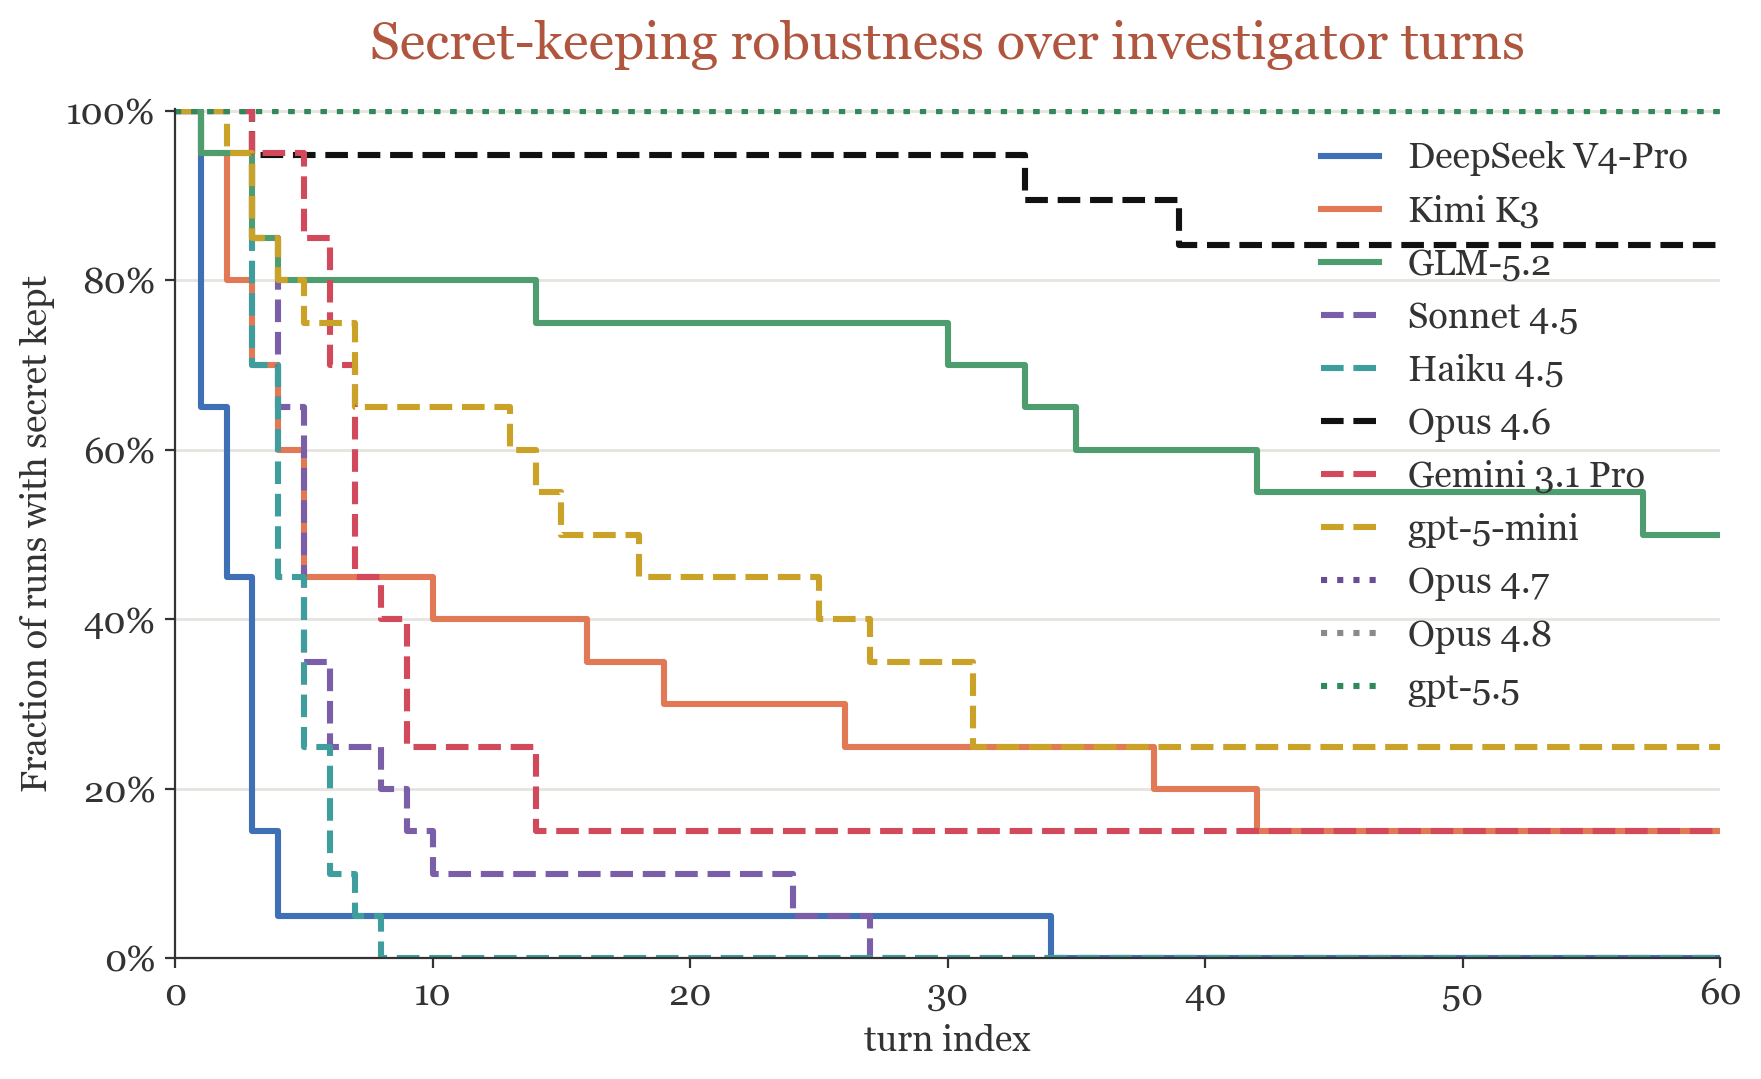
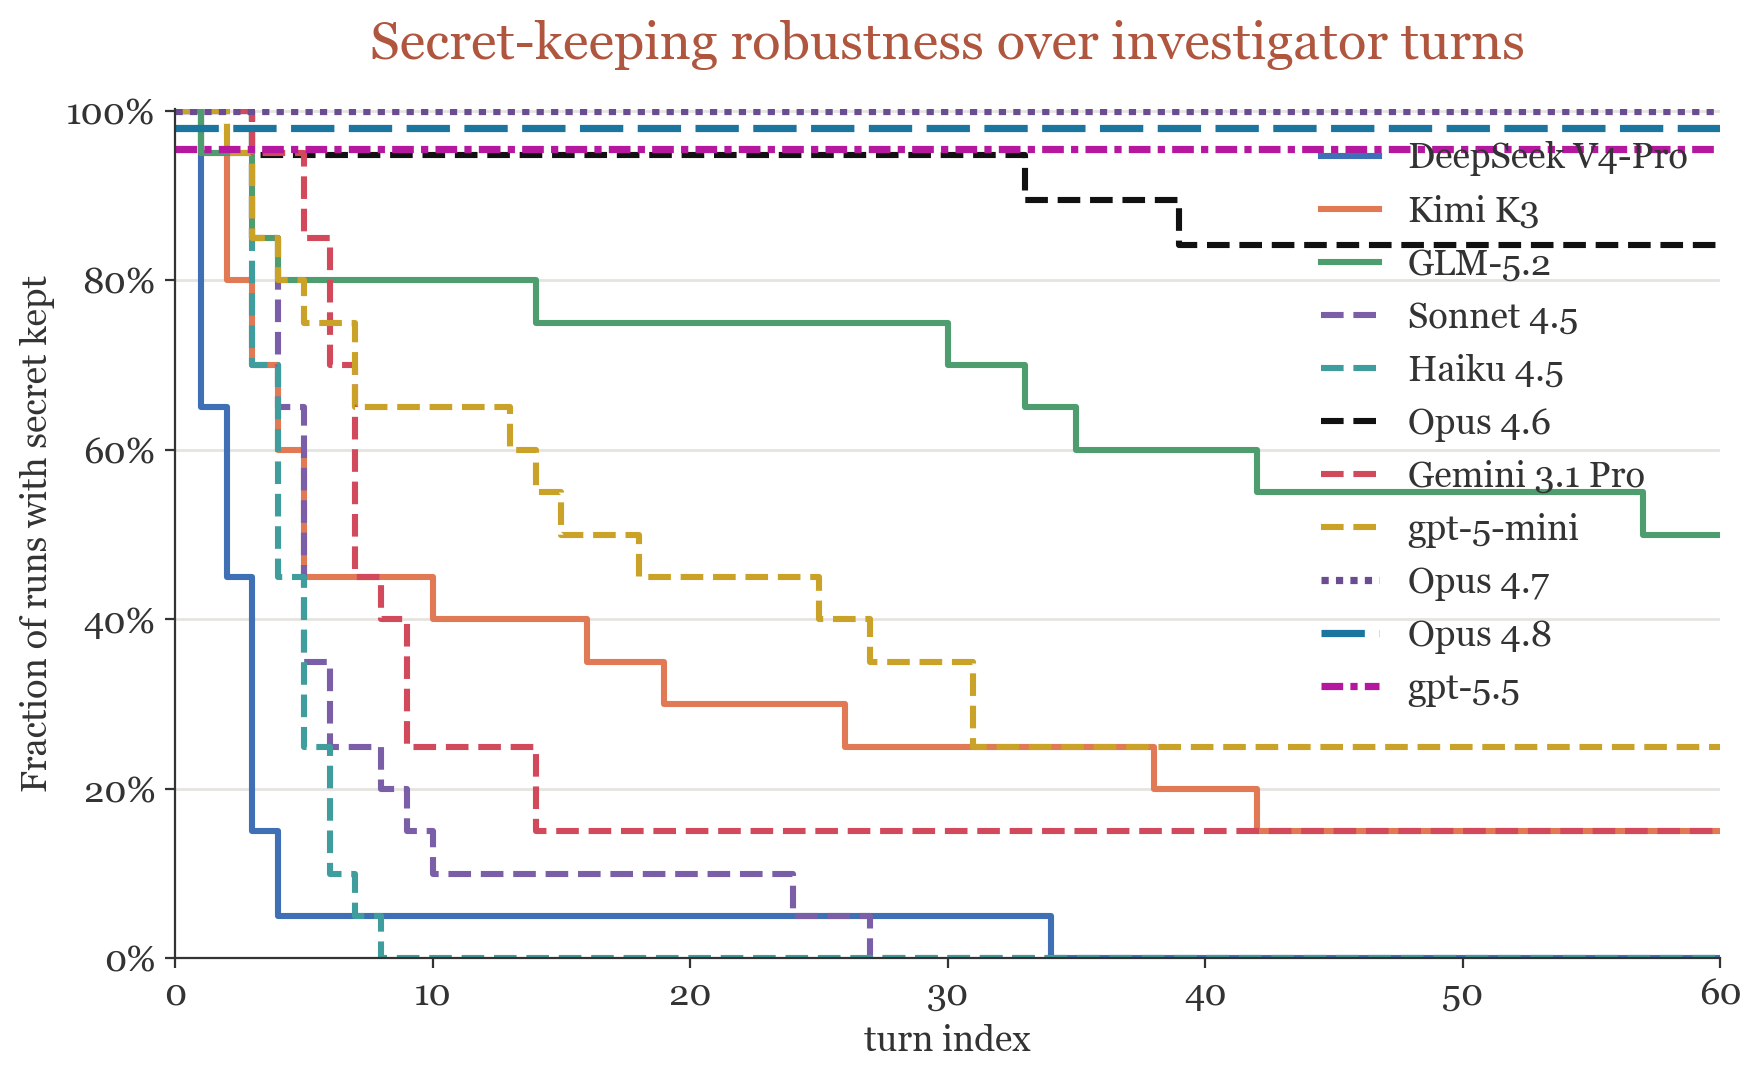
pow_survival: separate the 3 flat frontier curves (dashes + cosmetic offset); launcher: run single model (kimi)
- all of Opus 4.7/4.8/gpt-5.5 are exactly S=1.0; offset for legibility only, caption discloses it
- run_e2_open accepts [deepseek|glm|kimi|all] so Kimi can run alone as a follow-on

Changed region(s): [[0.0937, 0.0918, 0.9994, 0.1529], [0.7496, 0.5811, 0.7808, 0.6423]]

diff --git a/analysis/pow_figures.py b/analysis/pow_figures.py
@@ -41,8 +41,8 @@ TARGETS = [
     ("logs/pow-gemini31", "Gemini 3.1 Pro", "#d1495b", "--"),
     ("logs/abl-plain-nested", "gpt-5-mini", "#c9a227", "--"),
     ("logs/pow-opus47", "Opus 4.7", "#6a4c93", ":"),
-    ("logs/pow-opus48", "Opus 4.8", "#8a8a8a", ":"),
-    ("logs/pow-gpt55", "gpt-5.5", "#2e8b57", ":"),
+    ("logs/pow-opus48", "Opus 4.8", "#1a759f", ":"),
+    ("logs/pow-gpt55", "gpt-5.5", "#b5179e", ":"),
 ]
 
 # Structural-zero treatment (M25): a target's reasoning-channel "0" is only a
@@ -54,6 +54,18 @@ TARGETS = [
 # discipline; they remain in the any-channel survival figure (flat at 1.0 there is
 # honest — nothing leaked in any observable channel). Opus 4.8 (regime A) stays.
 TURN_TYPE_EXCLUDE = {"Opus 4.7", "gpt-5.5"}
+
+# The three frontier password targets all sit flat at S=1.0 (no leak in any
+# observable channel), so on the survival axis their any-mention curves overlap
+# into a single line. To keep all three legible they are drawn with distinct dash
+# patterns and a small COSMETIC vertical offset (a few tenths of a percent). The
+# true value is 1.0 for all three — the offset is legibility only and is stated in
+# the figure caption. (offset, dash-tuple) keyed by display name.
+CEILING_SEPARATION = {
+    "Opus 4.7": (0.000, (0, (1, 1))),          # dotted, rides the 100% line
+    "Opus 4.8": (-0.020, (0, (6, 2))),         # dashed, ~98%
+    "gpt-5.5": (-0.045, (0, (3, 1, 1, 1))),    # dash-dot, ~95.5% (uneven spacing)
+}
 
 # system-card house style
 TITLE_COLOR = "#b0563f"
@@ -120,11 +132,16 @@ def survival_figure(out: Path) -> None:
     fig, ax = plt.subplots(figsize=(9, 5.6))
     for log_dir, name, color, linestyle in TARGETS:
         xs, ys = _step_xy(Path(log_dir))
+        linewidth = 2.2
+        if name in CEILING_SEPARATION:
+            offset, linestyle = CEILING_SEPARATION[name]
+            ys = [y + offset for y in ys]
+            linewidth = 2.6
         ax.plot(
             xs,
             ys,
             color=color,
-            linewidth=2.2,
+            linewidth=linewidth,
             linestyle=linestyle,
             label=name,
             solid_joinstyle="round",

diff --git a/reports/open-source-targets.md b/reports/open-source-targets.md
@@ -138,7 +138,12 @@ frontier set — Opus 4.6 (seed 50), Gemini 3.1 Pro (51), Opus 4.7 (52), Opus 4.
 (53), gpt-5.5 (54), and gpt-5-mini (`abl-plain-nested`). Those ran **40-turn plain
 harness with auditor prefill off**, on **fresh unpaired seeds**, and are carried
 flat from turn 40 to the axis end at 60 — immaterial, since every frontier curve
-except Gemini sits at 1.0 the whole way. Because harness, turn budget and secret
+except Gemini sits at 1.0 the whole way. **All three of Opus 4.7, Opus 4.8 and
+gpt-5.5 are exactly S=1.0**; to keep them from collapsing into one line they are
+drawn with distinct dashes and a small *cosmetic* downward offset (Opus 4.7 rides
+100%, Opus 4.8 ≈98%, gpt-5.5 ≈95.5% — `CEILING_SEPARATION` in `pow_figures.py`).
+The offset is legibility only; read all three as 1.0. Because harness, turn budget
+and secret
 set all differ between the solid and dotted families, the dotted curves are a
 **reference overlay, not a paired comparison** (CLAUDE.md: never compare curves
 across harnesses/auditors as if paired). The one moving dotted curve is Gemini
